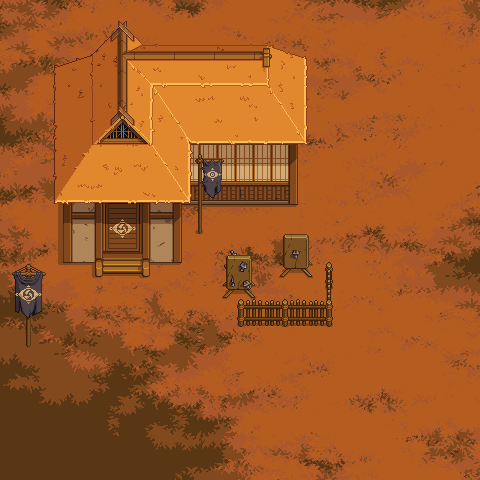
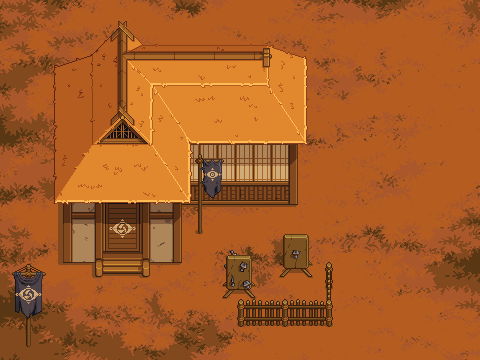
eherh

diff --git a/config.js b/config.js
@@ -36,20 +36,20 @@ window.SITE = {
     groups: {
       // Кнопки соцсетей (звонкие 8-bit сигналы)
       social: { enabled: true, selector: ".contact",
-        hover: { wave: "square", volume: 0.15, steps: [[988, 0.035], [1319, 0.05]] },
-        click: { wave: "pulse", duty: 0.25, volume: 0.25, steps: [[392, 0.04], [587, 0.04], [784, 0.09]] } },
+        hover: { wave: "triangle", volume: 0.05, steps: [[987.7, 0.035], [1397, 0.05]] },
+        click: { wave: "pulse", duty: 0.25, volume: 0.05, steps: [[392, 0.04], [587, 0.04], [784, 0.09]] } },
 
       // Арты в галерее (глухие басовые стуки)
       art: { enabled: true, selector: ".work",
-        hover: { wave: "triangle", volume: 0.3, slide: true, decay: true, lowpass: 700, steps: [[170, 0.03], [85, 0.07]] },
-        click: [ { wave: "sine", volume: 0.6, slide: true, decay: true, steps: [[150, 0.04], [55, 0.14]] },
-                 { wave: "noise", volume: 0.18, decay: true, lowpass: 900, steps: [[1000, 0.04]] } ] },
+        hover: { wave: "sine", volume: 0.3, slide: true, decay: true, lowpass: 700, steps: [[220, 0.07]] },              //file: "assets/sounds/galleryhover.wav"
+        click: [ { wave: "sine", volume: 0.6, slide: true, decay: true, steps: [[220, 0.05], [55, 0.14]] },
+                 { wave: "sawtooth", volume: 0.18, decay: true, lowpass: 900, steps: [[261.6, 0.05]] } ] },
 
       // Кнопки языка (сухой "деревянный" стук повыше)
       lang: { enabled: true, selector: "#langBar .pbtn",
-        hover: { wave: "triangle", volume: 0.25, slide: true, decay: true, lowpass: 800, steps: [[240, 0.02], [120, 0.05]] },
-        click: [ { wave: "triangle", volume: 0.5, slide: true, decay: true, lowpass: 900, steps: [[220, 0.03], [100, 0.1]] },
-                 { wave: "noise", volume: 0.12, decay: true, lowpass: 1200, steps: [[1000, 0.03]] } ] },
+        hover: { wave: "sine", volume: 0.3, slide: true, decay: true, lowpass: 700, steps: [[220, 0.07]] },
+        click: [ { wave: "triangle", volume: 0.1, slide: true, decay: true, lowpass: 900, steps: [[261.6, 0.03], [110, 0.1]] },
+                 { wave: "pulse", duty: 1, volume: 0.2, decay: true, lowpass: 1200, steps: [[587.3, 0.3]] } ] },
 
       // Интерфейс арта, открытого на весь экран: стрелки, крестик, ползунок (самый низкий, "каменный" стук)
       viewer: { enabled: true, selector: "#viewer .pbtn, #viewer .slider",

diff --git a/script.js b/script.js
@@ -25,8 +25,8 @@
   /* Наибольший целый масштаб k (1..max), при котором картинка помещается в рамку maxW x maxH (CSS-пиксели).
      Если не помещается даже при k=1, остаётся 1. */
   function fitScale(w, h, maxW, maxH, max) {
-    var R = ratio(), s = Math.floor(Math.min(maxW * R / w, maxH * R / h) + 1e-6);
-    return Math.max(1, Math.min(max || 10, s));
+    var R = ratio(), s = Math.floor(Math.min(maxW * R / w, maxH * 0.8 * R / h) + 1e-6);
+    return Math.max(1, Math.min(max || 10, s) );
   }
   /* То же для картинок интерфейса, но не меньше MIN "CSS-иксов" (по умолчанию 2x) */
   function uiScale(w, h, maxW, maxH) {
